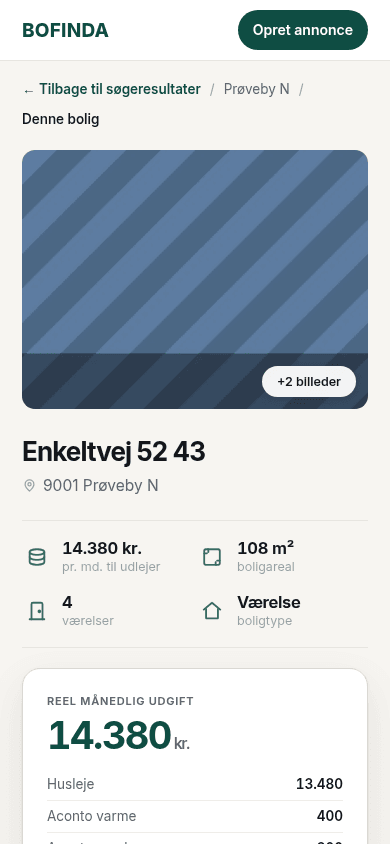
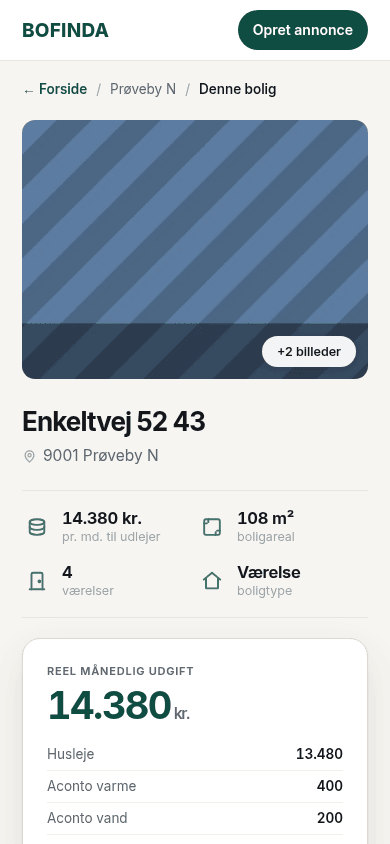
Tre punkter fra gennemgangen: knappens hoejde, tilbage-linket, fotoet udestaaende
Designretningen og opbygningen fra 4a1d2af er uaendret.

═══ 1 · SOEGEKNAPPEN PAA MOBILE SOEGERESULTATER ═══

`form.filtre.soegt .soegeknap { padding: 0 24px }` — tre klasser og et
element — stod uden medieforespoergsel og slog mobilens
`padding: 14px 24px` i `@media (max-width: 900px)`. Knappen mistede al
lodret polstring paa resultatsiden, mens forsidens knap, der ikke er
`.soegt`, var rigtig.

Tredje gang samme faelde rammer den samme bjaelke — foerst kolonnerne,
nu knappen. To rigtige regler om det samme, hvor den ene aldrig fyrer.

Rettet to steder: nedskaleringen er flyttet ind i
`@media (min-width: 901px)`, hvor den gaelder, og `.soegeknap` har faaet
`min-height: 48px` i mobilblokken som gulv under beroeringsmaalet.
Polstring alene afhaenger af skriftstoerrelsen OG af, at ingen anden
regel naar at overskrive den — og netop dét skete.

Maalt paa begge sider og tre bredder, samme build foer og efter. «Foer»
er `app/globals.css` tjekket ud fra 4a1d2af og bygget paa ny, ikke
skoennet ud fra reglerne:

    bredde  side              foer    efter
      390   forside            48      48
      390   soegeresultater    19      48
      768   forside            48      48
      768   soegeresultater    19      48
     1440   forside            63      63
     1440   soegeresultater    58      58

Maalingen er lagt ind i `scripts/cloud/lancering.mjs` som seks faste
kontroller — begge sider, tre bredder. 768 px er med, fordi det er den
[…]

diff --git a/app/bolig/[id]/page.tsx b/app/bolig/[id]/page.tsx
@@ -155,15 +155,24 @@ export default async function Side({ params }: { params: Promise<{ id: string }>
     <article className="detalje">
       <Maaling aktiv={mt.aktiv} impressions={false} visning={null} rute="/bolig/[id]" />
       {/* ── Stien ─────────────────────────────────────────────
-          Referencens broedkrumme: tilbage til soegningen, byen, og
-          «Denne bolig» som det sted, man staar. Byen peger paa
-          soegesiden med `sted` — samme parameter som filterbjaelken
-          bruger, saa linket rammer noejagtig den soegning, navnet
-          lover. Ikke omraadesiden: den findes kun over
+          Referencens broedkrumme: forsiden, byen, og «Denne bolig» som
+          det sted, man staar.
+
+          DER STAAR «FORSIDE», FORDI LINKET FOERER TIL FORSIDEN. Det hed
+          «Tilbage til soegeresultater», men `/` uden parametre er ikke
+          den soegning, hun kom fra — filtre, sortering og sidetal er
+          vaek. Et link, der lover at foere tilbage og i stedet nulstiller
+          soegningen, er den samme slags usandhed som en total, der lader
+          som om aconto er kendt: den opdages foerst, naar nogen har brugt
+          den. Navnet siger nu, hvad linket goer.
+
+          Byen peger paa soegesiden med `sted` — samme parameter som
+          filterbjaelken bruger, saa dét link rammer noejagtig den
+          soegning, navnet lover. Ikke omraadesiden: den findes kun over
           `MINDST_BOLIGER`, og et link, der kan give 404, er ikke en sti. */}
       <nav className="detalje-sti" aria-label="Sti">
         <a className="sti-tilbage" href="/">
-          <span aria-hidden="true">←</span> Tilbage til søgeresultater
+          <span aria-hidden="true">←</span> Forside
         </a>
         {b.by && (
           <>

diff --git a/app/globals.css b/app/globals.css
@@ -1090,6 +1090,12 @@ footer.bund {
   .soegeknap {
     grid-column: 1 / -1; margin: 10px 4px 2px; padding: 14px 24px;
     border-radius: var(--r-pille);
+    /* Gulv under beroeringsmaalet. Polstring alene afhaenger af
+       skriftstoerrelsen og af, at ingen anden regel naar at overskrive
+       den — og netop dét skete. Sidens vigtigste handling maa ikke
+       kunne blive lavere end en finger, uanset hvad der ellers
+       aendres. */
+    min-height: 48px;
   }
   .hero-soeg { transform: translateY(26px); }
   .hero { margin-bottom: 26px; }
@@ -1206,10 +1212,18 @@ form.filtre.soegt {
    regler, der svarer paa det samme, og den ene fyrede aldrig. */
 @media (min-width: 901px) {
   form.filtre.soegt .soegebar { grid-template-columns: 1.4fr 1.2fr 1fr 1fr auto; }
+  /* SAMME FAELDE, OG DEN RAMTE KNAPPEN. `form.filtre.soegt .soegeknap`
+     er tre klasser og et element og stod uden medieforespoergsel, saa
+     dens `padding: 0 24px` slog mobilens `padding: 14px 24px` i
+     `@media (max-width: 900px)`. Knappen mistede AL lodret polstring og
+     blev en tynd groen stribe paa resultatsiden — mens forsidens knap,
+     der ikke er `.soegt`, var rigtig. To rigtige regler om det samme,
+     hvor den ene aldrig fyrede. Nedskaleringen hoerer derfor her, hvor
+     den gaelder. */
+  form.filtre.soegt .soegeknap { font-size: 15px; padding: 0 24px; }
 }
 form.filtre.soegt .soegefelt { padding: 8px 14px; }
 form.filtre.soegt .soegefelt input { font-size: 14.5px; }
-form.filtre.soegt .soegeknap { font-size: 15px; padding: 0 24px; }
 /* 16 px paa mobil: under det zoomer iOS ind paa fokus og efterlader
    siden skaev, til man zoomer ud igen. */
 @media (max-width: 560px) {

diff --git a/docs/frontend-lancering-v2/designloeft.md b/docs/frontend-lancering-v2/designloeft.md
@@ -156,6 +156,68 @@ Hero'en dækker `0..1440` af 1440 px og `0..390` af 390 px.
 
 ---
 
+## Rettet efter den uafhængige gennemgang
+
+Tre punkter fra gennemgangen af `4a1d2af`. Designretningen og
+opbygningen er uændret.
+
+### 1 · Søgeknappen på mobile søgeresultater
+
+`form.filtre.soegt .soegeknap { padding: 0 24px }` — tre klasser og et
+element — stod uden medieforespørgsel og slog mobilens
+`padding: 14px 24px` i `@media (max-width: 900px)`. Knappen mistede al
+lodret polstring på resultatsiden, mens forsidens knap, der ikke er
+`.soegt`, var rigtig.
+
+**Det er tredje gang samme fælde rammer den samme bjælke** — først
+kolonnerne, nu knappen. To rigtige regler om det samme, hvor den ene
+aldrig fyrer.
+
+Rettet to steder: nedskaleringen er flyttet ind i `@media (min-width: 901px)`,
+hvor den gælder, og `.soegeknap` har fået `min-height: 48px` i
+mobilblokken som gulv under berøringsmålet — polstring alene afhænger af
+skriftstørrelsen og af, at ingen anden regel når at overskrive den, og
+netop dét skete.
+
+Målt på begge sider og tre bredder, samme build før og efter:
+
+| Bredde | Side | Før | Efter |
+|---|---|---|---|
+| 390 px | forside | 48 px | 48 px |
+| 390 px | **søgeresultater** | **19 px** | **48 px** |
+| 768 px | forside | 48 px | 48 px |
+| 768 px | **søgeresultater** | **19 px** | **48 px** |
+| 1440 px | forside | 63 px | 63 px |
+| 1440 px | søgeresultater | 58 px | 58 px |
+
+«Før» er målt på `app/globals.css` udtjekket fra `4a1d2af` og bygget på
+ny — ikke skønnet ud fra reglerne.
+
+Målingen er lagt ind i `scripts/cloud/lancering.mjs` som seks faste
+kontroller. Den kører på 390, 768 **og** 1440 px og på **begge** sider,
+fordi fejlen netop var, at kun den ene side var gal, og fordi 768 px er
+den bredde, hvor mobilreglerne stadig gælder, men ingen så efter.
+
+### 2 · Tilbage-navigationen på boligsiden
+
+Linket hed «Tilbage til søgeresultater», men pegede på `/` uden
+parametre — altså ikke den søgning, brugeren kom fra: filtre, sortering
+og sidetal var væk. Det hedder nu **«Forside»**, som er hvad linket gør.
+
+Bylinket ved siden af er uændret og peger fortsat på `/?sted={by}` —
+samme parameter som filterbjælken bruger, så dét link rammer nøjagtig
+den søgning, navnet lover.
+
+Et link, der lover at føre tilbage og i stedet nulstiller søgningen, er
+samme slags usandhed som en total, der lader som om aconto er kendt:
+den opdages først, når nogen har brugt den.
+
+### 3 · Hero-fotoet — stadig udestående
+
+Se afsnittet nedenfor. Fotoet kunne **ikke** skaffes i dette miljø.
+
+---
+
 ## Det manglende billedaktiv
 
 **Der findes ikke et lyst interiørfoto til hero'en.** Referencens hero er
@@ -172,13 +234,48 @@ manglende aktiv er:
 > 2400 px bredt, med dokumenteret licens og ophavsmand, og med plads i
 > venstre halvdel til overskrift og manchet.
 
-Fotoet er ikke lagt i repoet. Det peges på med `NEXT_PUBLIC_HERO_FOTO`,
-og krediteringen med `NEXT_PUBLIC_HERO_FOTO_KREDIT` — samme mønster som
-kortflisernes `NEXT_PUBLIC_FLISE_URL`/`_KREDIT`, og af samme grund: et
-billedaktiv har en licens og en ophavsmand, og begge dele hører dårligt
-hjemme i git. Er variablen ikke sat, står hero'en med brandets gradient;
-layoutet er det samme, kun fladen skifter. **Variablerne er valgfri og
-er ikke sat noget sted uden for testmiljøet.**
+### Forsøgt skaffet — miljøet tillader det ikke
+
+Gennemgangen bad om at finde et lyst interiørfoto med dokumenteret
+brugsret. **Det kan ikke lade sig gøre herfra.** Ét opslag mod fem
+oplagte værter — Wikimedia Commons og `upload.wikimedia.org` (CC/CC0 med
+navngiven ophavsmand), Unsplash, Pexels og Openverse — svarede alle:
+
+    curl: (56) CONNECT tunnel failed, response 403
+
+Det er miljøets egen netværkspolitik, ikke en fejl hos værterne. Der er
+**ikke** forsøgt igen og ikke forsøgt uden om: hverken proxy, anden rute
+eller genereret erstatning. Et genereret billede ville i øvrigt ikke
+løse opgaven — det har ingen ophavsmand at kreditere, og siden ville
+påstå et hjem, der ikke findes.
+
+### To veje ind, når fotoet foreligger
+
+**A · Statisk i repoet** (det gennemgangen foreslår, så billedet følger
+koden). Læg filen i en ny `public/`-mappe — projektet har ikke en i dag —
+og sæt `NEXT_PUBLIC_HERO_FOTO=/hero-stue.jpg`. Kreditering og licens
+skrives ind i `NEXT_PUBLIC_HERO_FOTO_KREDIT` og i
+`docs/kildetilladelser.md`, som allerede er stedet, hvor rettigheder
+noteres pr. kilde.
+
+**B · Ekstern vært.** Samme to variabler, blot med en fuld URL. Vær
+opmærksom på, at værten IKKE skal i `TILLADTE_VAERTER` i
+`lib/billede.ts`: hero'en går uden om billedproxyen, fordi den ikke er
+et boligbillede fra en kilde.
+
+Ingen kodeændring er nødvendig for nogen af de to veje. Der er bevidst
+**ikke** bygget maskineri til en fil, der ikke findes: en
+eksistenskontrol mod en tom `public/`-mappe ville være plumbing uden et
+aktiv, og en hardkodet sti til en manglende fil ville give et 404 i
+hero'en.
+
+Fotoet er ikke lagt i repoet i dag. Det peges på med
+`NEXT_PUBLIC_HERO_FOTO`, og krediteringen med
+`NEXT_PUBLIC_HERO_FOTO_KREDIT` — samme mønster som kortflisernes
+`NEXT_PUBLIC_FLISE_URL`/`_KREDIT`. Er variablen ikke sat, står hero'en
+med brandets gradient; layoutet er det samme, kun fladen skifter.
+**Variablerne er valgfri og er ikke sat noget sted uden for
+testmiljøet.**
 
 ---
 
@@ -227,15 +324,42 @@ Alle kørt mod det isolerede testmiljø efter den sidste ændring.
 | `npx next build` | Compiled successfully · 18 ruter |
 | `scripts/cloud/kontrol.sh` | ALT GRØNT — kort, billeder dekodet, gruppekort, samtykke og analytics |
 | `scripts/cloud/kontrol-pagination.sh` | ALT GRØNT — sideudsnit, canonical, tomt udsnit ≠ nulresultat |
-| `scripts/cloud/lancering.mjs` | alt grønt — 1440 og 390 px, fokus, kontrast, lang adresse, kort uden foto |
+| `scripts/cloud/lancering.mjs` | alt grønt · 88 kontroller — 1440, 768 og 390 px, fokus, kontrast, lang adresse, kort uden foto, søgeknappens højde |
 
-`scripts/cloud/lancering.mjs` er rettet to steder, fordi designet flyttede
-det, den målte: `.storsoeg input` hedder nu `.soegebar input`, og
-resultatsidens bevidste feltstørrelse er 14,5 px i stedet for 15 px.
+`scripts/cloud/lancering.mjs` er rettet to steder og udvidet ét, fordi
+designet flyttede det, den målte:
+
+- `.storsoeg input` hedder nu `.soegebar input`
+- resultatsidens bevidste feltstørrelse er 14,5 px i stedet for 15 px
+- **nyt:** seks kontroller af søgeknappens højde — begge sider, tre
+  bredder. Se «Rettet efter den uafhængige gennemgang» ovenfor.
+
 Kontrollernes hensigt er uændret. Ingen funktionel kontrol er ændret.
 
 **Ikke kørt:** `npm run test:prod` (skriver i produktionen) og enhver
 import eller scheduler.
+
+### Hvad der er målt hvornår
+
+Alle seks kontroller i tabellen er kørt **efter** rettelserne fra
+gennemgangen, mod samme build som skærmbillederne. Før/efter-tallene for
+søgeknappen er begge målt i denne omgang: «før» ved at tjekke
+`app/globals.css` ud fra `4a1d2af` og bygge på ny.
+
+Rammegeometrien er efterprøvet igen efter rettelserne og er uændret —
+symmetriske gutters og 0 px vandret overløb på 1440, 1280, 1100, 768,
+390 og 360 px.
+
+**Fotoafprøvning er noget andet end layoutafprøvning.** Alt ovenfor er
+målt på **syntetiske** data: 264 prøveboliger, stribede testaktiver i
+stedet for boligfotos, lokale kortfliser. Den eneste flade med et
+rigtigt fotografi er hero'en, og det er et stockfoto af et udendørs
+motiv, mærket som sådan på siden. Den egentlige fotokontrol — beskæring,
+billedforhold, liggende motiv i kort, galleri og lysbord — er
+dokumenteret særskilt i `fotokontrol.md` og blev kørt mod kandidat
+`fa522eb` (13. september, resultatet skrevet ned i `9a06f68`). Den er
+**ikke** gentaget i denne omgang: rettelserne rører hverken
+billedproxyen, galleriet eller lysbordet.
 
 ---
 
@@ -246,12 +370,12 @@ skærmbillede.
 
 | Fil | Bredde |
 |---|---|
-| `forside-{desktop,mellem,mobil}.png` | 1440 · 1100 · 390 |
-| `soegeresultater-{desktop,mellem,mobil}.png` | med tre aktive filtre og sortering |
+| `forside-{desktop,mellem,tablet,mobil}.png` | 1440 · 1100 · 768 · 390 |
+| `soegeresultater-{desktop,mellem,tablet,mobil}.png` | med tre aktive filtre og sortering |
 | `boligdetalje-{desktop,mobil}.png` | bolig med flest billeder |
 | `boligdetalje-ukendt-udgift-{desktop,mobil}.png` | ukendt total |
 | `boligdetalje-uden-foto-{desktop,mobil}.png` | ingen billeder |
-| `gruppeside-{desktop,mellem,mobil}.png` | gruppeannonce |
+| `gruppeside-{desktop,mellem,tablet,mobil}.png` | gruppeannonce |
 
 Alle er taget af **produktionsbygget**, ikke af `next dev`, og samtykket
 er afvist med den rigtige knap — aldrig skjult med CSS.
